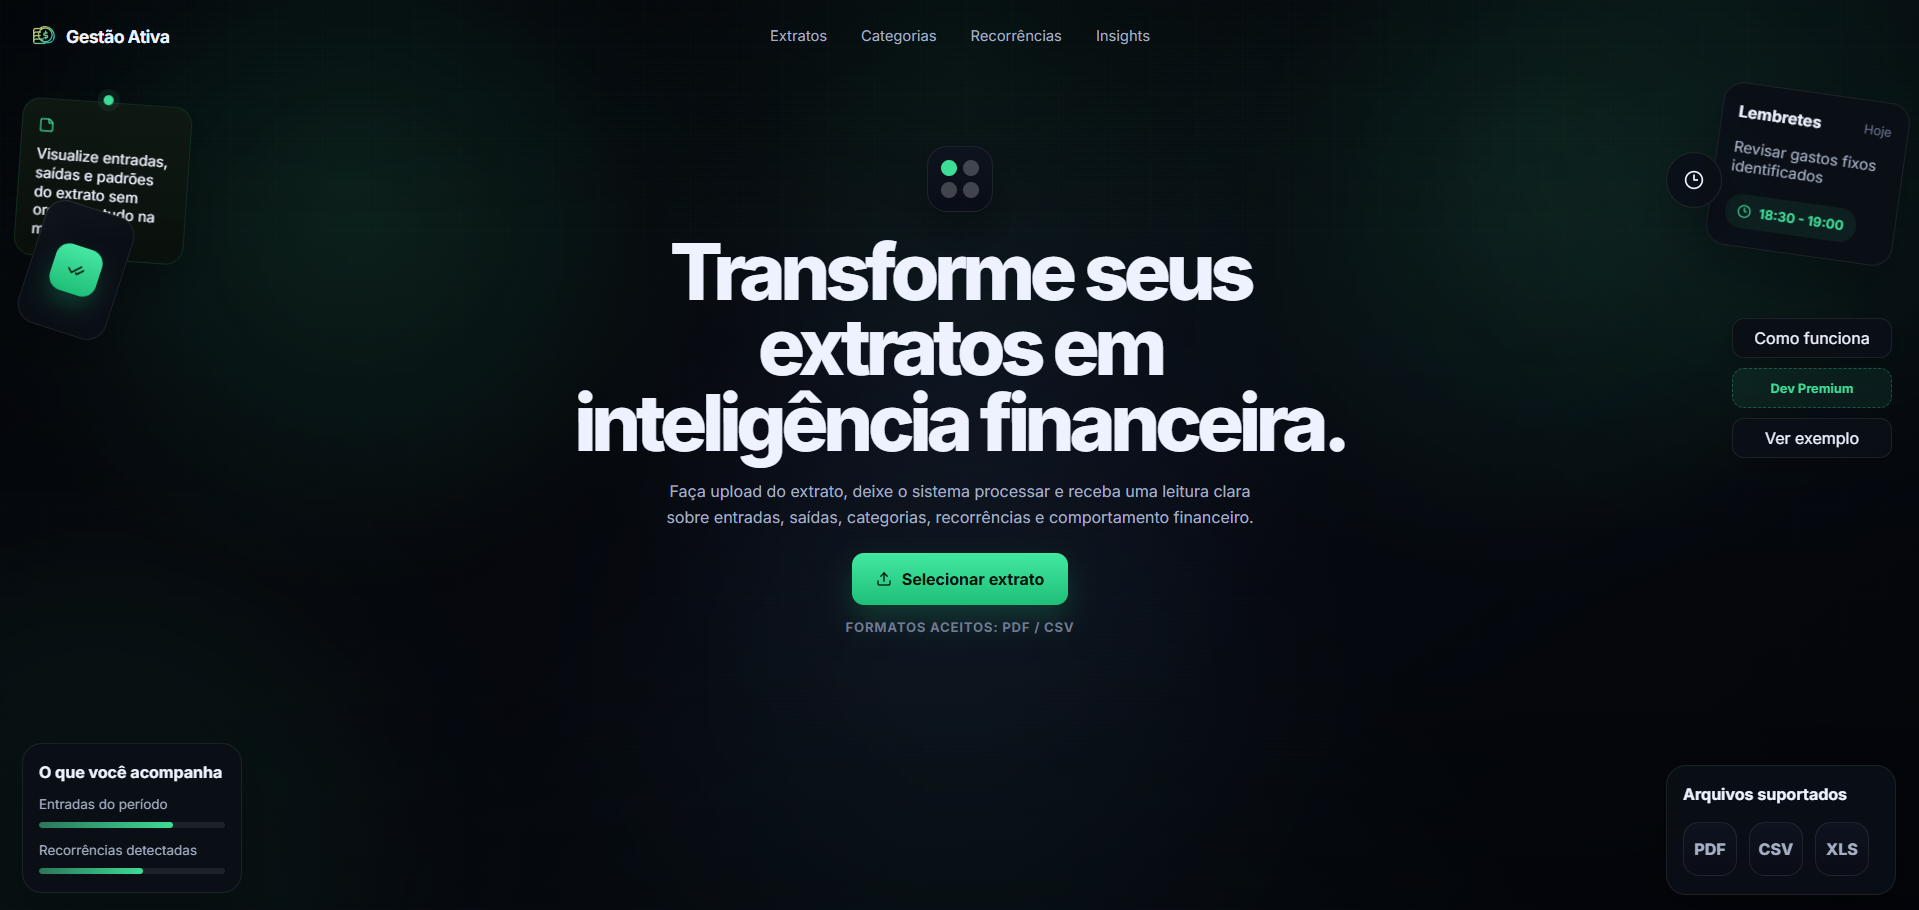
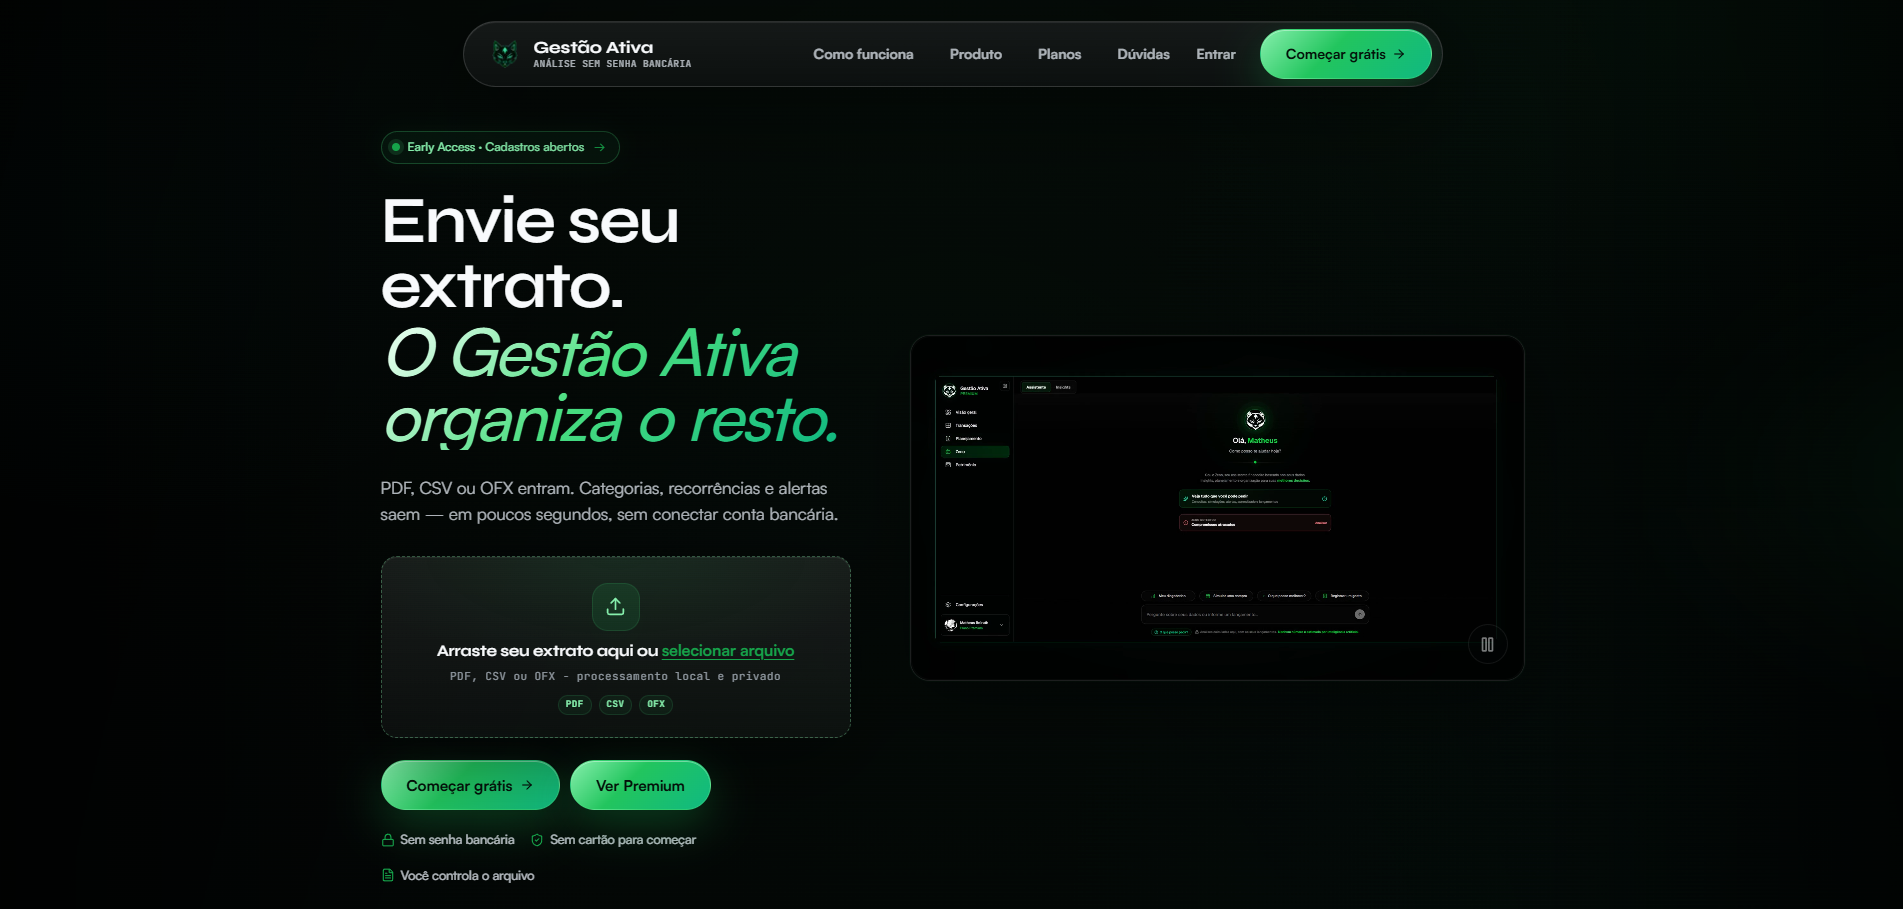
Troca projetos SCALE e LoveLine por TaskManagerAPI e express-jwt-docker-api
Atualiza tambem o preview do Gestao Ativa e remove as imagens
dos projetos que sairam do portfolio.

diff --git a/index.html b/index.html
@@ -123,19 +123,19 @@
 
         <div class="projects-grid">
           <article class="project-card reveal">
-            <a href="https://github.com/BeiruthDEV/SCALE" target="_blank" rel="noopener noreferrer" aria-label="Abrir projeto SCALE no GitHub">
+            <a href="https://github.com/BeiruthDEV/TaskManagerAPI" target="_blank" rel="noopener noreferrer" aria-label="Abrir projeto TaskManagerAPI no GitHub">
               <div class="project-card__browser">
                 <span class="browser-dots" aria-hidden="true"><i></i><i></i><i></i></span>
-                <span>SCALE</span>
+                <span>TaskManagerAPI</span>
               </div>
               <div class="project-card__image">
-                <img src="assets/img/projects/scale-preview.png" width="1919" height="899" loading="lazy" alt="Preview da landing page do projeto SCALE">
+                <img src="assets/img/projects/trackio-preview.png" width="1920" height="1080" loading="lazy" alt="Preview do painel de tarefas do projeto TaskManagerAPI">
               </div>
               <div class="project-card__body">
-                <div class="project-card__topline"><span>Frontend · UI</span><span class="project-card__arrow" aria-hidden="true">↗</span></div>
-                <h3>SCALE</h3>
-                <p>Landing page para um app de controle de treino.</p>
-                <ul class="tag-list" aria-label="Tecnologias e categorias do projeto SCALE"><li>Frontend</li><li>UI</li><li>Landing page</li></ul>
+                <div class="project-card__topline"><span>Backend · API</span><span class="project-card__arrow" aria-hidden="true">↗</span></div>
+                <h3>TaskManagerAPI</h3>
+                <p>API REST de gestão de tarefas com quadro Kanban e dashboard.</p>
+                <ul class="tag-list" aria-label="Tecnologias e categorias do projeto TaskManagerAPI"><li>Java</li><li>Spring Boot</li><li>REST API</li></ul>
               </div>
             </a>
           </article>
@@ -147,7 +147,7 @@
                 <span>Gestão Ativa</span>
               </div>
               <div class="project-card__image">
-                <img src="assets/img/projects/gestao-ativa-preview.png" width="1919" height="910" loading="lazy" alt="Preview do projeto Gestão Ativa">
+                <img src="assets/img/projects/gestao-ativa-preview.png" width="1903" height="909" loading="lazy" alt="Preview do projeto Gestão Ativa">
               </div>
               <div class="project-card__body">
                 <div class="project-card__topline"><span>Gestão operacional</span><span class="project-card__arrow" aria-hidden="true">↗</span></div>
@@ -159,19 +159,19 @@
           </article>
 
           <article class="project-card reveal">
-            <a href="https://github.com/BeiruthDEV/lovelilne-demo" target="_blank" rel="noopener noreferrer" aria-label="Abrir projeto LoveLine no GitHub">
+            <a href="https://github.com/BeiruthDEV/express-jwt-docker-api" target="_blank" rel="noopener noreferrer" aria-label="Abrir projeto express-jwt-docker-api no GitHub">
               <div class="project-card__browser">
                 <span class="browser-dots" aria-hidden="true"><i></i><i></i><i></i></span>
-                <span>LoveLine</span>
+                <span>express-jwt-docker-api</span>
               </div>
               <div class="project-card__image">
-                <img src="assets/img/projects/loveline-preview.png" width="1919" height="911" loading="lazy" alt="Preview do projeto LoveLine">
+                <img src="assets/img/projects/inventory-control-preview.png" width="1919" height="910" loading="lazy" alt="Preview do dashboard do projeto express-jwt-docker-api">
               </div>
               <div class="project-card__body">
-                <div class="project-card__topline"><span>Experiência digital</span><span class="project-card__arrow" aria-hidden="true">↗</span></div>
-                <h3>LoveLine</h3>
-                <p>Interface responsiva com fluxo simples e visual polido.</p>
-                <ul class="tag-list" aria-label="Tecnologias e categorias do projeto LoveLine"><li>Frontend</li><li>UX</li><li>Interface</li></ul>
+                <div class="project-card__topline"><span>Full stack · API</span><span class="project-card__arrow" aria-hidden="true">↗</span></div>
+                <h3>express-jwt-docker-api</h3>
+                <p>Gestão de estoque com autenticação JWT e ambiente containerizado.</p>
+                <ul class="tag-list" aria-label="Tecnologias e categorias do projeto express-jwt-docker-api"><li>Node.js</li><li>React</li><li>Docker</li></ul>
               </div>
             </a>
           </article>
